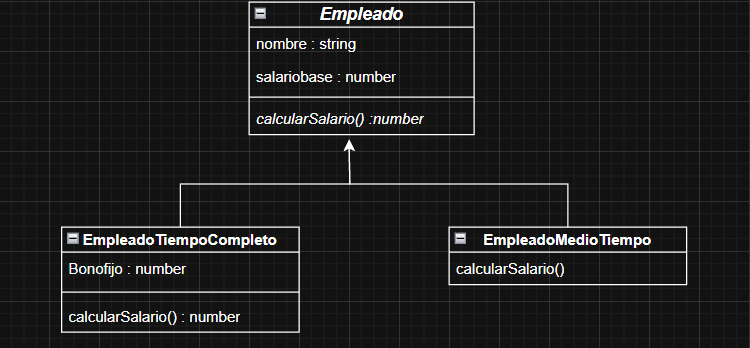
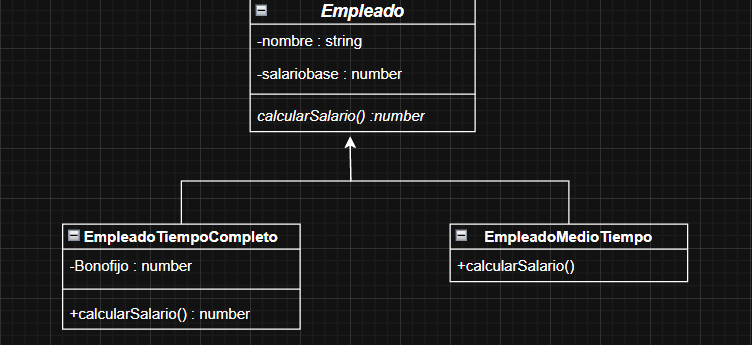
ejercicio3correjido

diff --git a/tp1/ejercicio3/empleado.abstract.ts b/tp1/ejercicio3/empleado.abstract.ts
@@ -1,7 +1,13 @@
 export abstract class Empleado {
-    constructor (public nombre: string,public salarioBase:number){
+    constructor(private nombre: string, private salarioBase: number) {}
 
+    abstract calcularSalario(): number;
+
+    getNombre(): string {
+        return this.nombre;
     }
 
-    abstract calcularSalario() : number;
-} 
+    getSalarioBase(): number {
+        return this.salarioBase;
+    }
+}

diff --git a/tp1/ejercicio3/empleadoTiempoCompleto.ts b/tp1/ejercicio3/empleadoTiempoCompleto.ts
@@ -1,9 +1,9 @@
-import {Empleado} from "./empleado.abstract"
+import { Empleado } from "./empleado.abstract";
 
-export class EmpleadoTiempocompleto extends Empleado{
+export class EmpleadoTiempoCompleto extends Empleado {
     private bonoFijo: number = 20000;
 
     calcularSalario(): number {
-        return this.salarioBase + this.bonoFijo;
+        return this.getSalarioBase() + this.bonoFijo;
     }
 }

diff --git a/tp1/ejercicio3/empleadoMedioTiempo.ts b/tp1/ejercicio3/empleadoMedioTiempo.ts
@@ -1,8 +1,8 @@
-import {Empleado} from "./empleado.abstract"
+import { Empleado } from "./empleado.abstract";
 
-class EmpleadoMedioTiempo extends Empleado{
+export class EmpleadoMedioTiempo extends Empleado {
     calcularSalario(): number {
-        return this.salarioBase * 0.5;
+        return this.getSalarioBase() * 0.5;
     }
 }
 

diff --git a/tp1/ejercicio3/index.ts b/tp1/ejercicio3/index.ts
@@ -11,5 +11,5 @@ const empleados: Empleado[] = [
 ];
 
 for (const empleado of empleados) {
-    console.log(`${empleado.nombre} cobra $${empleado.calcularSalario()}`);
+    console.log(`${empleado.getNombre} cobra $${empleado.calcularSalario()}`);
 }
